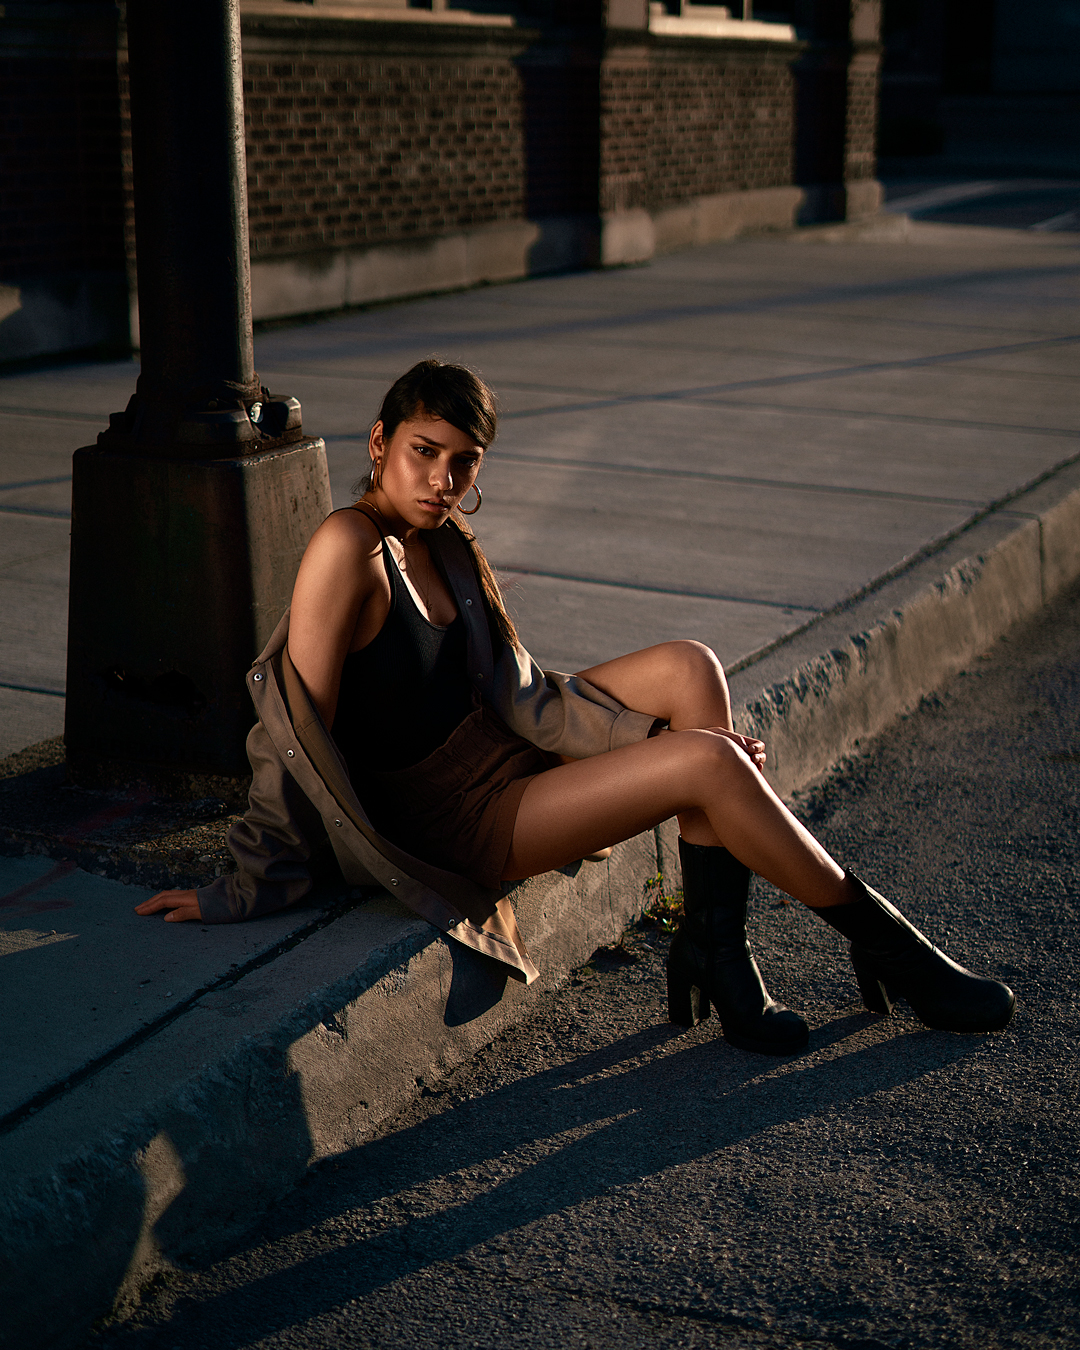
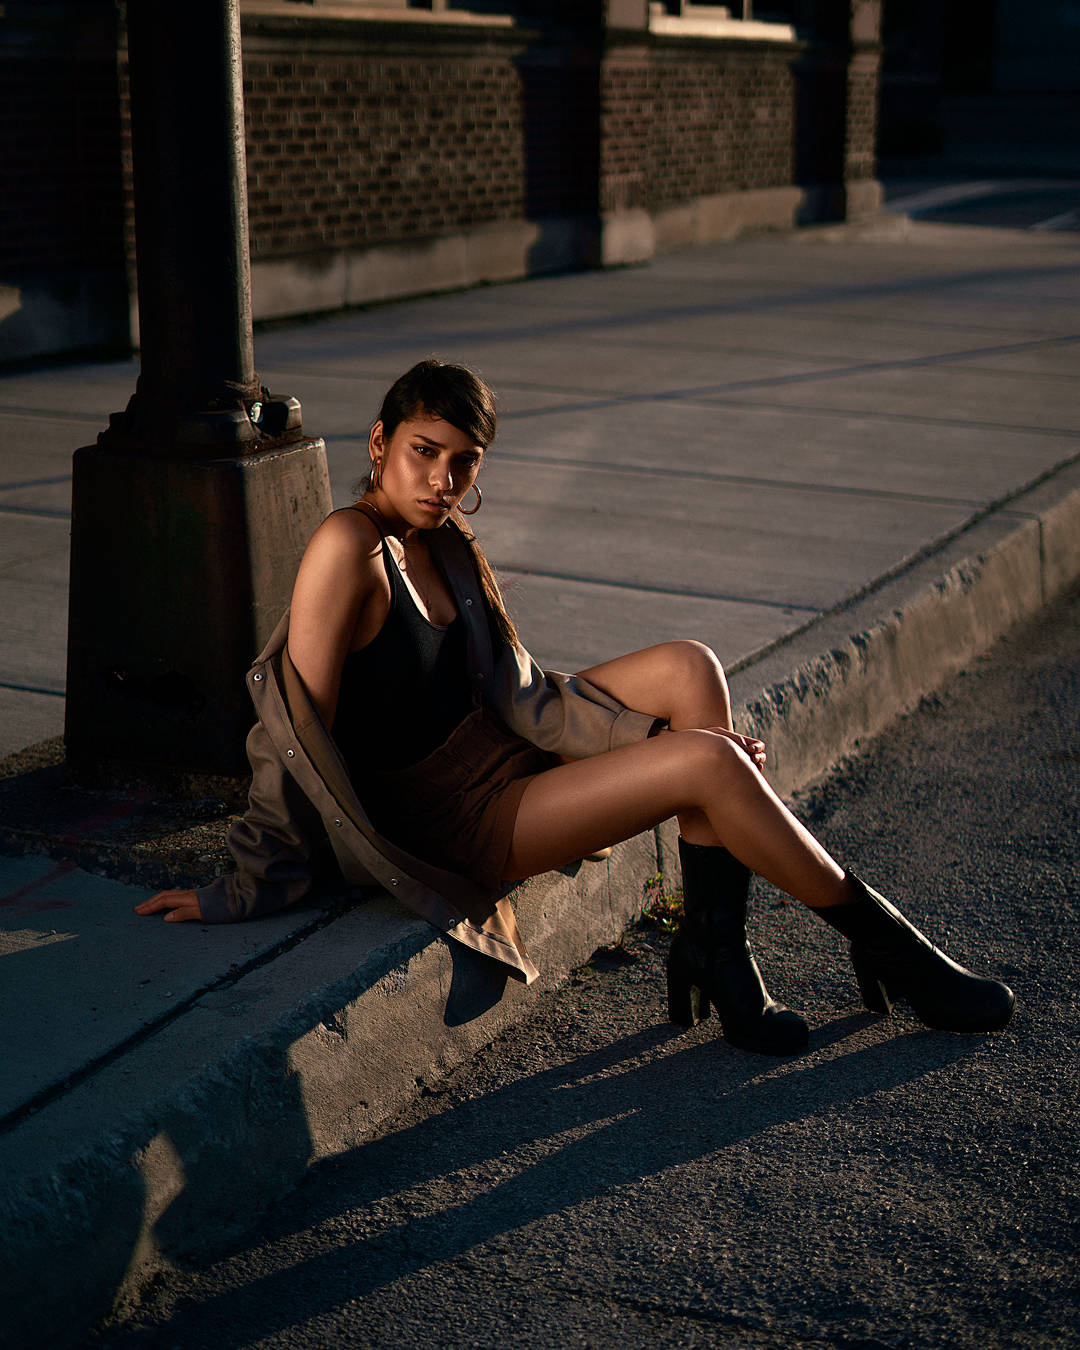
Reduced sizes of all images, separated thumbnails into smaller size as well

diff --git a/index.html b/index.html
@@ -36,28 +36,28 @@
   <div class="wrapper">
     <nav class="lil-nav">
       <a href="#image-1">
-        <img class="lil-nav__img" src="images/1-GIO.jpg" alt="Giovana1" />
+        <img class="lil-nav__img" src="images/thumbnails/1-GIO.jpg" alt="Giovana1" />
       </a>
       <a href="#image-2">
-        <img class="lil-nav__img" src="images/2-JAY.jpg" alt="Jayden2" alt="Jayden2" />
+        <img class="lil-nav__img" src="images/thumbnails/2-JAY.jpg" alt="Jayden2" />
       </a>
       <a href="#image-3">
-        <img class="lil-nav__img" src="images/3-GELSEY.jpg" alt="Gelsey3" />
+        <img class="lil-nav__img" src="images/thumbnails/3-GELSEY.jpg" alt="Gelsey3" />
       </a>
       <a href="#image-4">
-        <img class="lil-nav__img" src="images/4-GAYLE.jpg" alt="Gayle4" />
+        <img class="lil-nav__img" src="images/thumbnails/4-GAYLE.jpg" alt="Gayle4" />
       </a>
       <a href="#image-5">
-        <img class="lil-nav__img" src="images/5-KIANA.jpg" alt="Kianna5" />
+        <img class="lil-nav__img" src="images/thumbnails/5-KIANA.jpg" alt="Kianna5" />
       </a>
       <a href="#image-6">
-        <img class="lil-nav__img" src="images/6-KIANA.jpg" alt="Kianna6" />
+        <img class="lil-nav__img" src="images/thumbnails/6-KIANA.jpg" alt="Kianna6" />
       </a>
       <a href="#image-7">
-        <img class="lil-nav__img" src="images/7-Jayden.jpg" alt="Jayden7" />
+        <img class="lil-nav__img" src="images/thumbnails/7-Jayden.jpg" alt="Jayden7" />
       </a>
       <a href="#image-8">
-        <img class="lil-nav__img" src="images/8-GIOnJAY.jpg" alt="GioNJay8" />
+        <img class="lil-nav__img" src="images/thumbnails/8-GIOnJAY.jpg" alt="GioNJay8" />
       </a>
     </nav>
   
